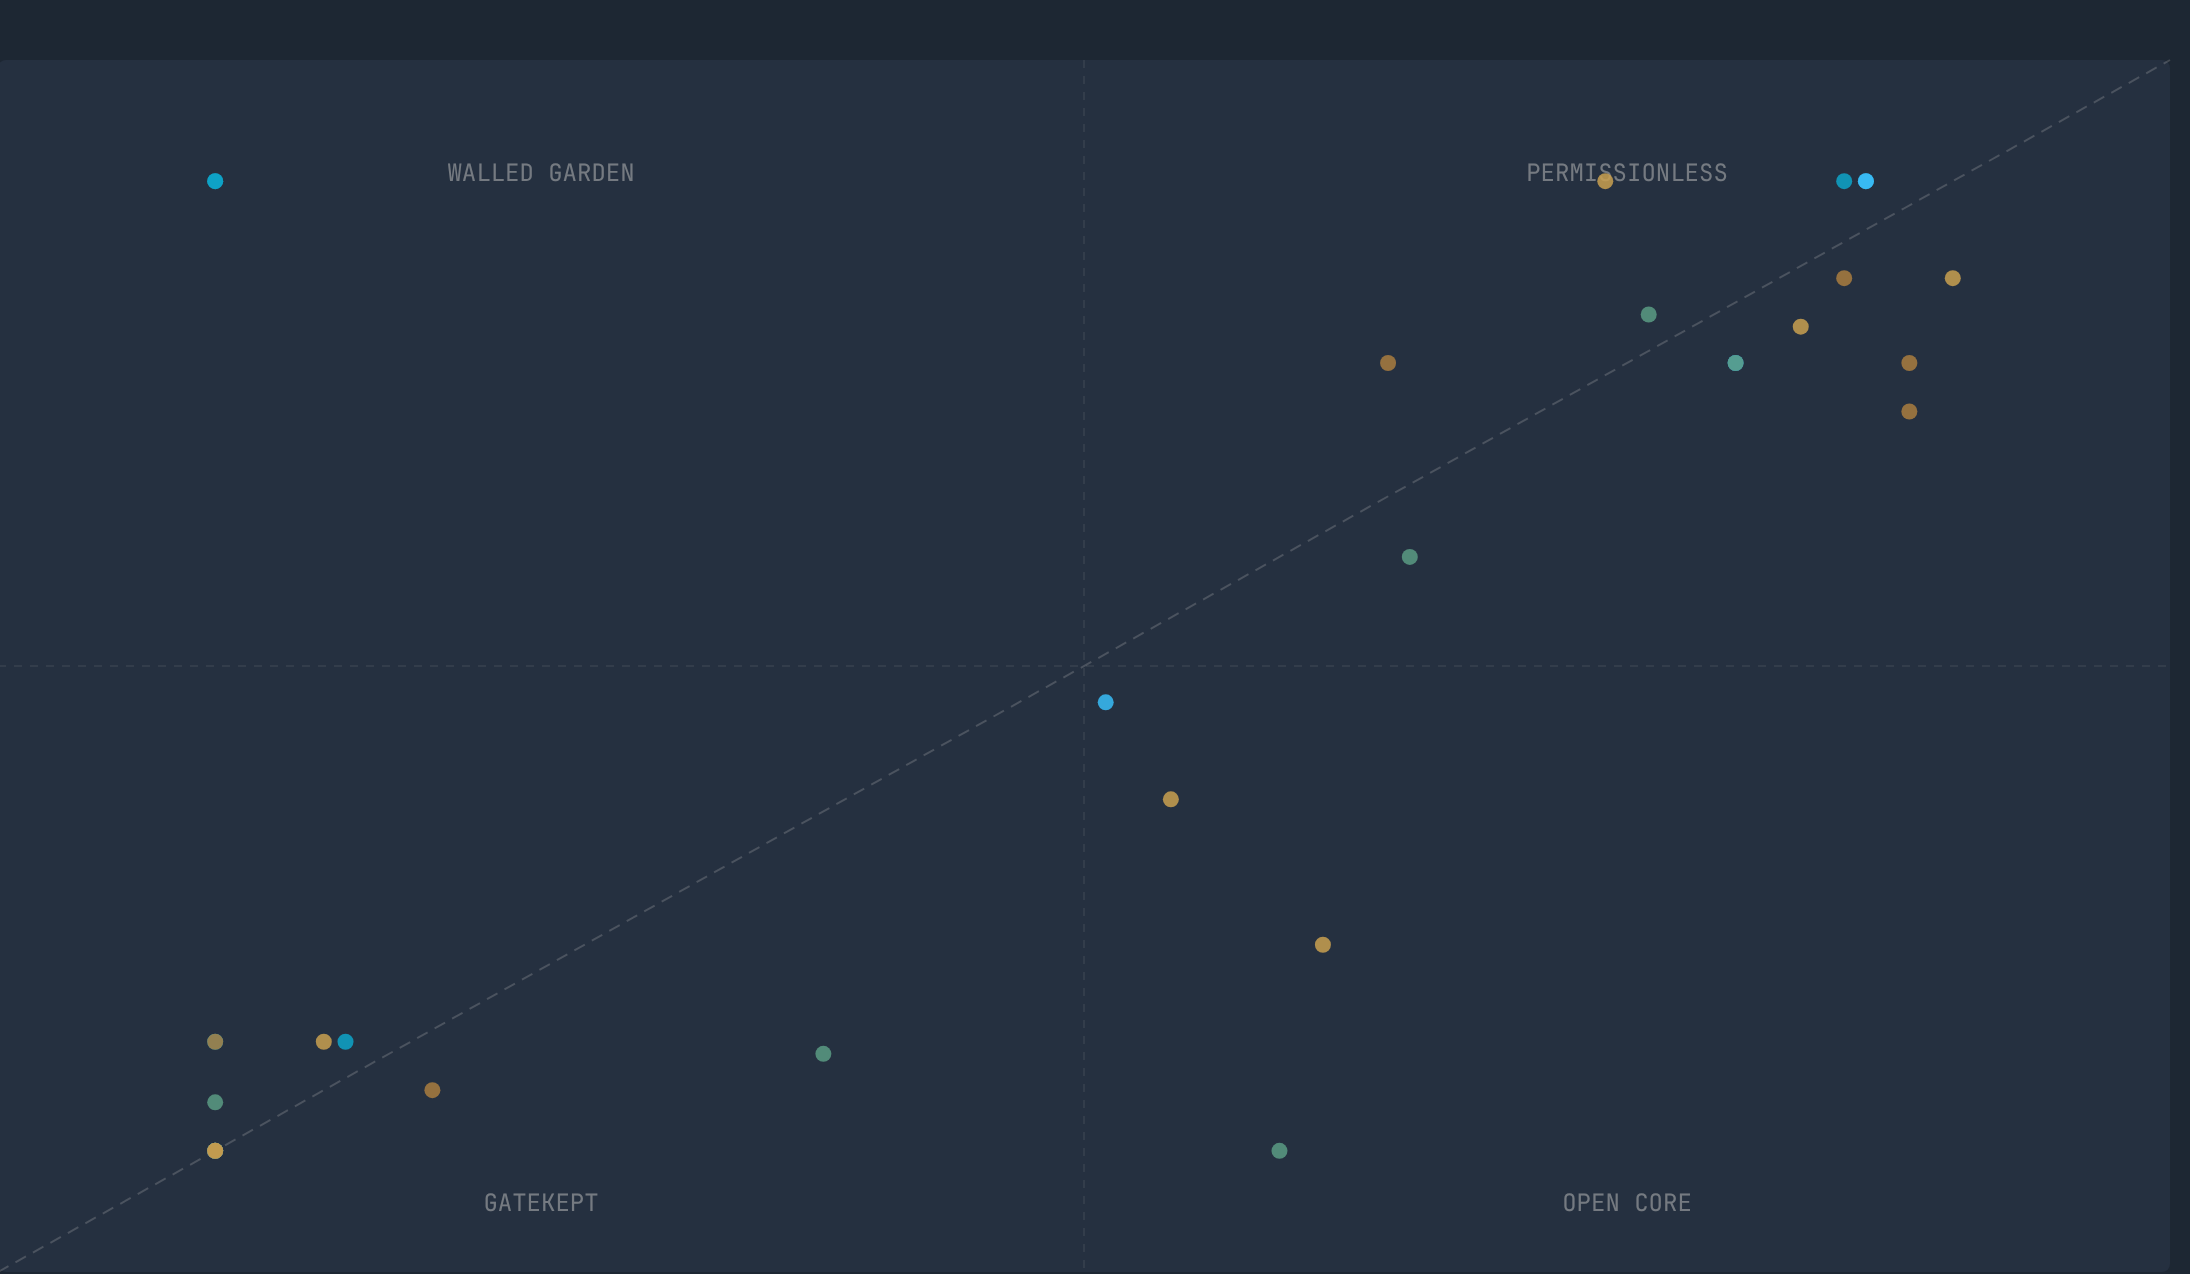
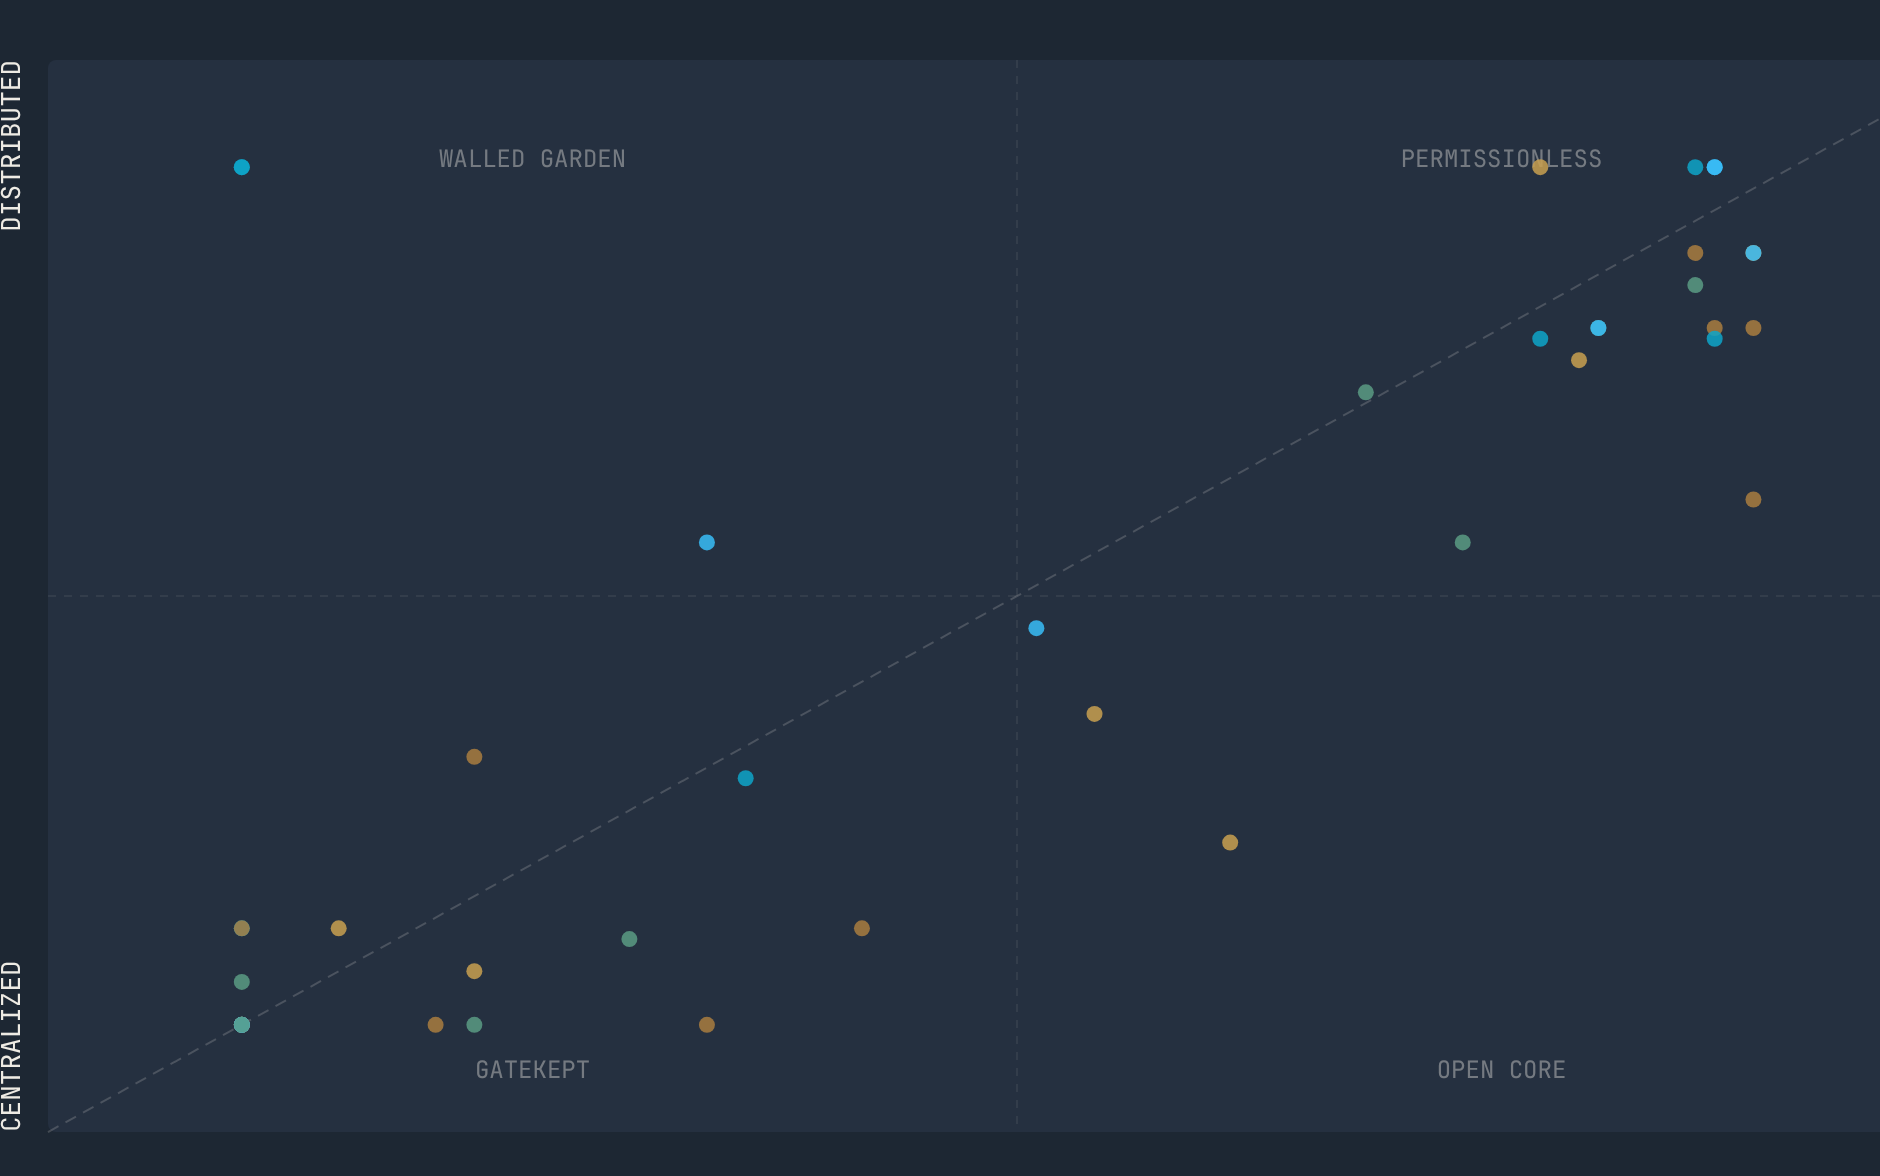
fix(capture-og): support React-island projects; regenerate map OG
capture-og.sh now measures the chart-island, then adjusts the viewport
so it renders at the canonical 940px (no-op for HTML projects already at
940), skips row-gap snapping when there are no rows, and locks crop width
to 940px. Add a .chart-island capture hook to the map's chart wrapper
(inert; no stylesheet targets it on that page). Regenerate map OG +
thumbnail with the refreshed 43-player chart.

diff --git a/src/components/map/AgentInfraMap.jsx b/src/components/map/AgentInfraMap.jsx
@@ -413,7 +413,9 @@ export default function AgentInfraMap() {
         }}>
           Select a layer to reveal labels
         </div>
-        <div ref={setChartRef}>
+        {/* className is a capture hook for scripts/capture-og.sh; no stylesheet
+            defines .chart-island on this page, so layout is unaffected. */}
+        <div ref={setChartRef} className="chart-island">
           <ScatterPlot data={data} layers={layers} width={chartWidth} height={chartHeight} selectedLayer={view} hoveredPoint={hoveredPoint} setHoveredPoint={setHoveredPoint} pinnedPoint={pinnedPoint} setPinnedPoint={setPinnedPoint} showDiagonal={showDiagonal} />
         </div>
         <div style={{ marginTop: mobile ? 20 : 28, padding: "16px 0", borderTop: `1px solid ${C.text}15` }}>